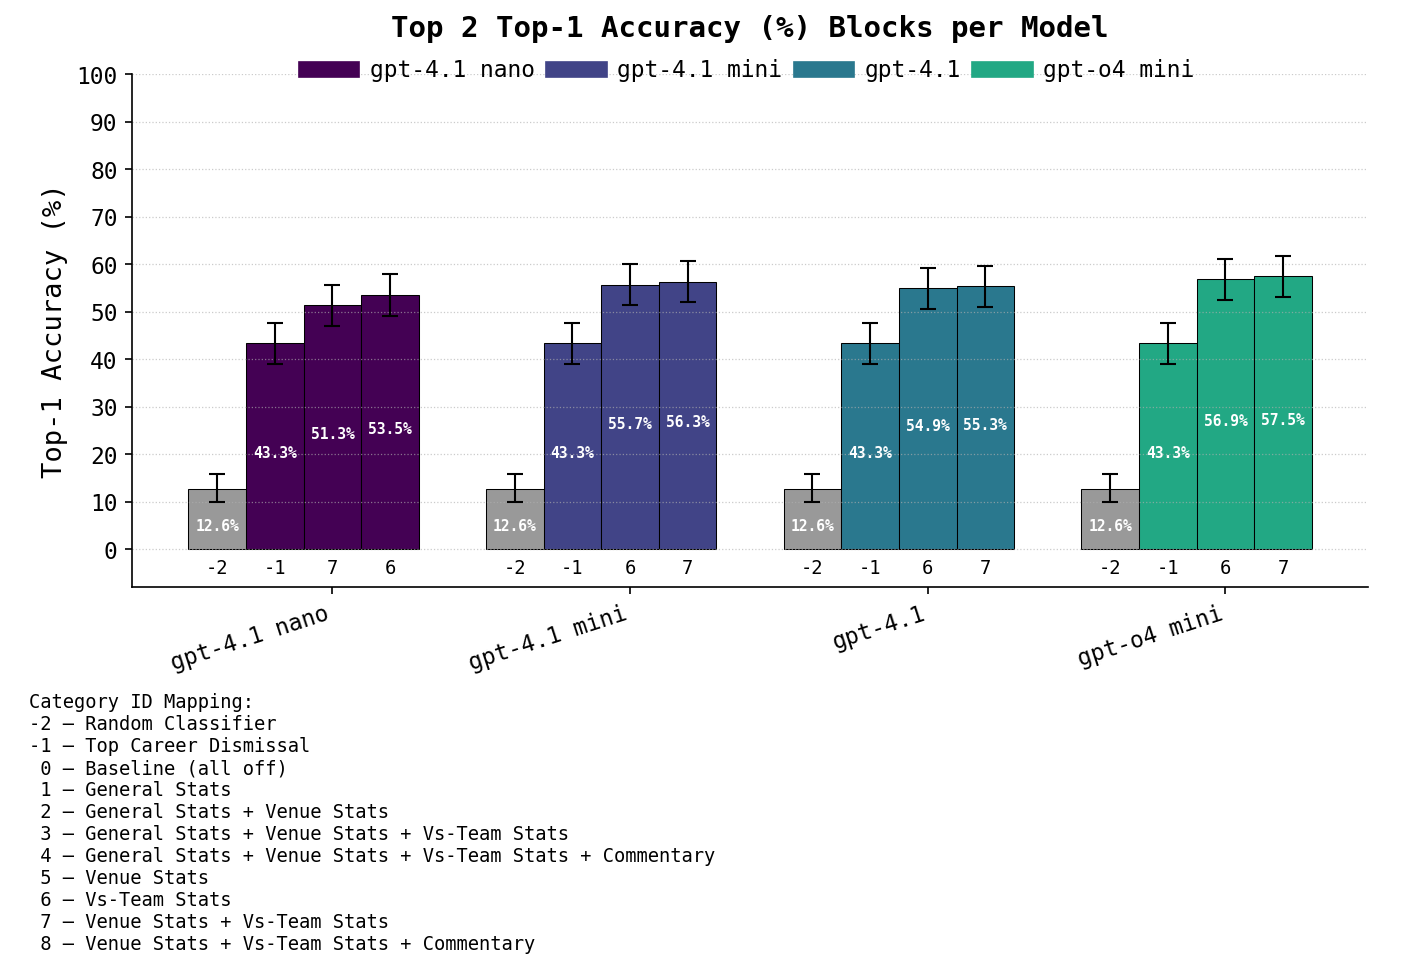
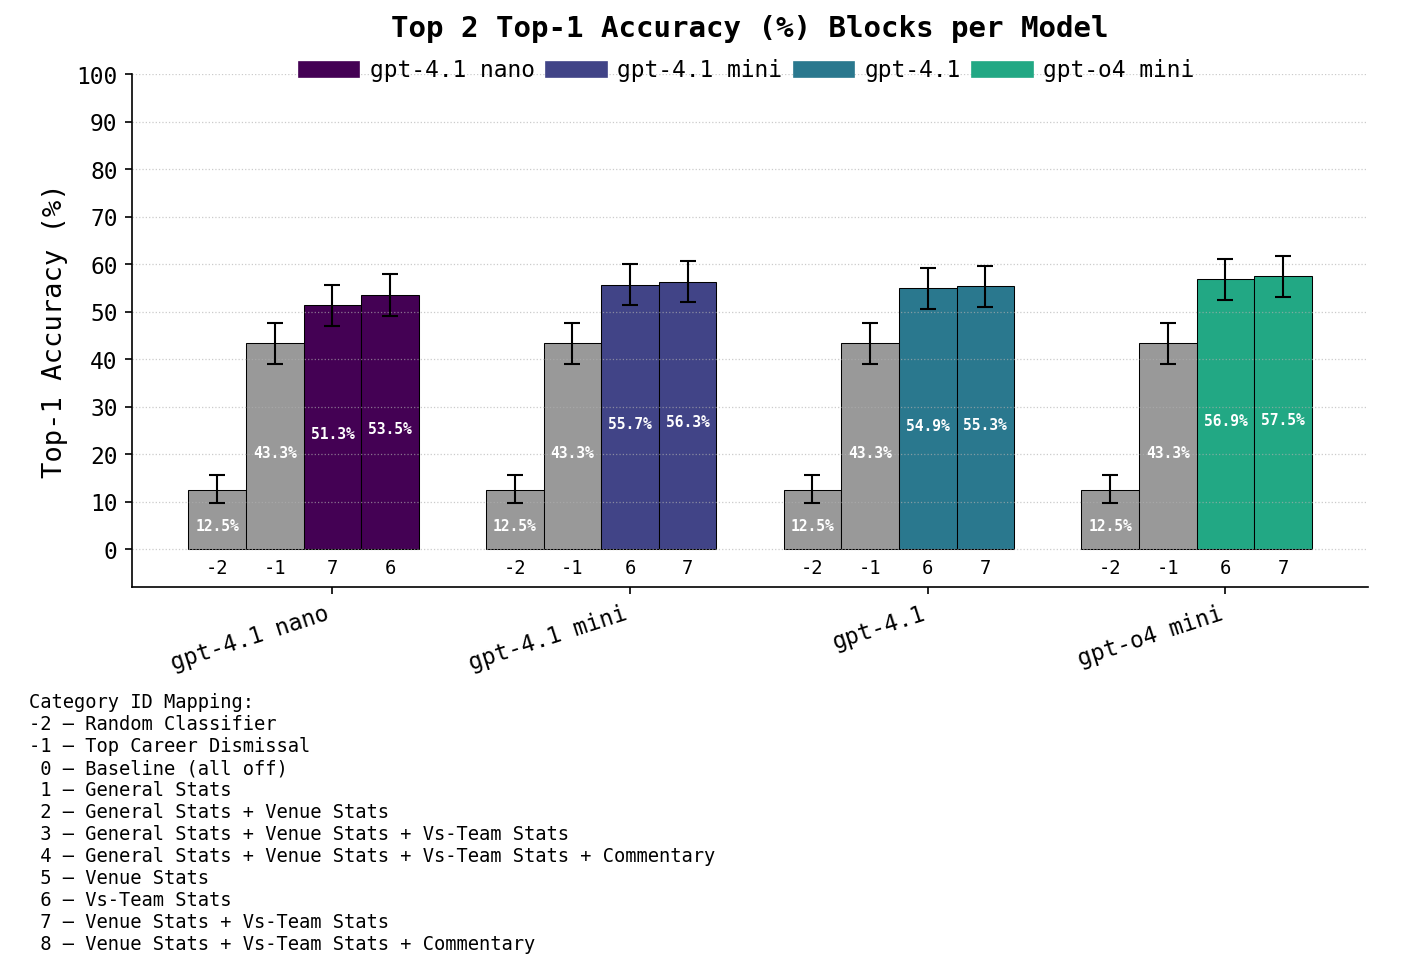
added 3 diffrent kinds of plots

diff --git a/llm/plot_top2_blocks_per_model.py b/llm/plot_top2_blocks_per_model.py
@@ -93,9 +93,10 @@ for metric in METRICS:
         top2 = df.nlargest(2, metric)
         # Add Random Classifier baseline (1/8 for top1, 2/8 for top2)
         rand_n = int(df["n"].iloc[0])  # use same sample size as other blocks
-        rand_successes = round(rand_n * (1 / 8 if metric == "top1_acc" else 2 / 8))
-        rand_acc = (rand_successes / rand_n) * 100
+        rand_successes = int(rand_n * (1 / 8 if metric == "top1_acc" else 2 / 8))  # floor to integer
+        rand_acc = 12.5 if metric == "top1_acc" else 25.0
         low, high = wilson_ci(rand_successes, rand_n)
+
         rows.append(dict(
             model=model_label,
             block="Random Classifier",
@@ -180,10 +181,8 @@ for metric in METRICS:
 
         colors = []
         for cid in blocks:
-            if cid == -2:
-                colors.append(EXTRA_BAR_COLOR[-2])  # random classifier → grey
-            elif cid == -1:
-                colors.append(MODEL2COLOR[model])  # top career dismissal → model color
+            if cid in [-2, -1]:  # both random classifier and TCD → grey
+                colors.append(EXTRA_BAR_COLOR[-2])
             else:
                 colors.append(MODEL2COLOR[model])
 
@@ -197,6 +196,7 @@ for metric in METRICS:
             ax.errorbar(x, r["accuracy"], yerr=[[err_low], [err_high]], fmt="none", ecolor="black", capsize=4, linewidth=1)
 
         for x, h, cid in zip(xs, heights, blocks):
+            print(f"[{model}] Block {cid}: {r['block']} → n = {int(n)}, accuracy = {r['accuracy']:.2f}%")
             ax.text(x, -2, str(cid), ha="center", va="top", fontsize=9)
             ax.text(x, h / 2 - 1.5, f"{h:.1f}%", ha="center", va="center", color="white" if h > 10 else "black", fontsize=7, weight="bold")
 
